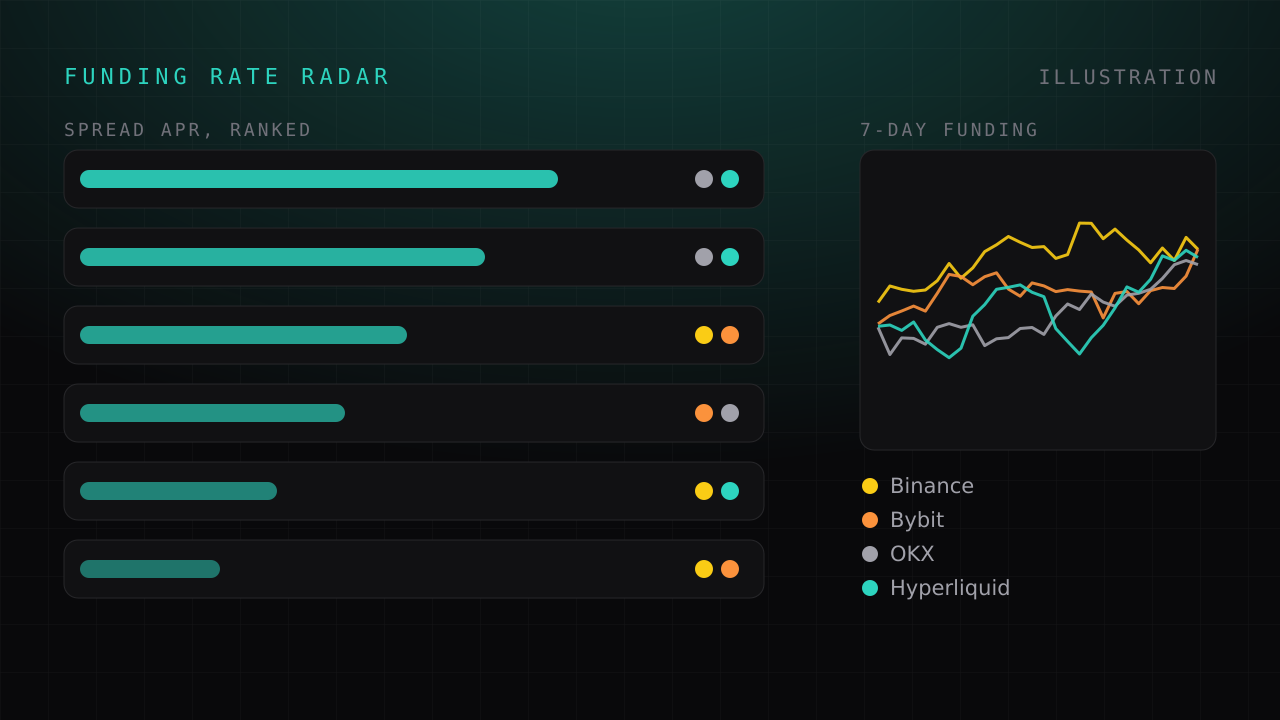
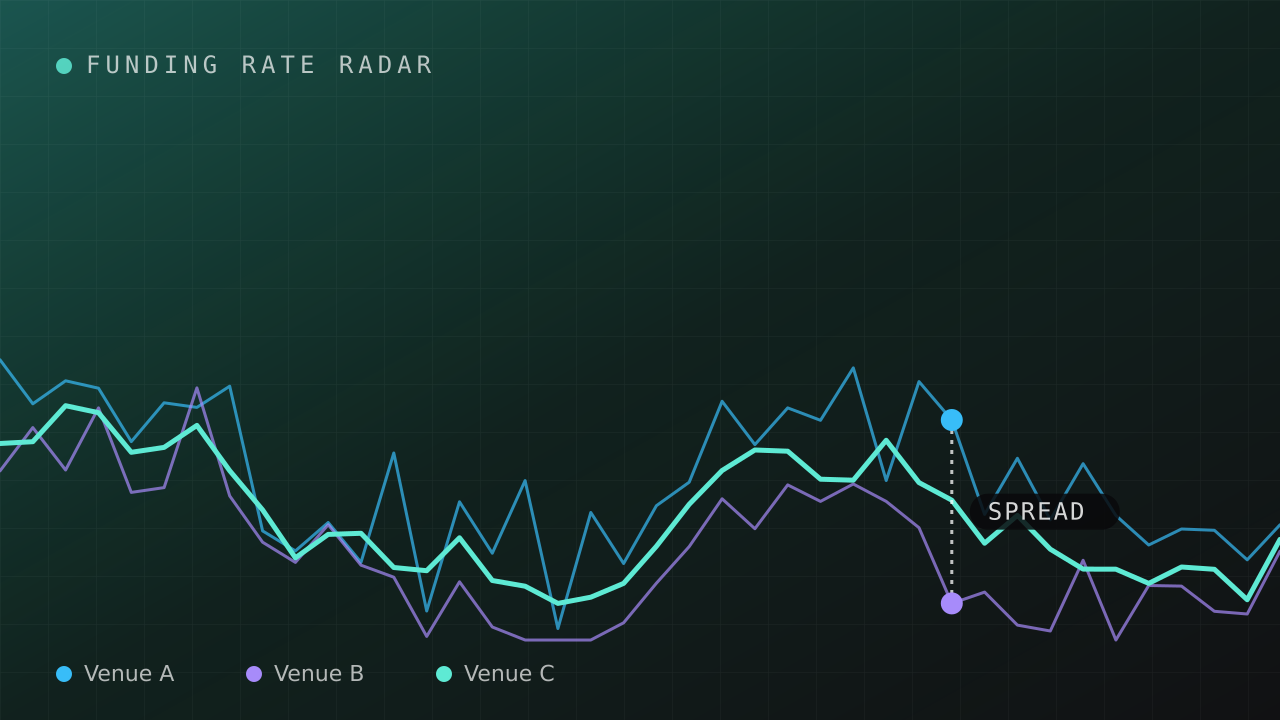
Redraw covers in the original generated style
Grid Bot keeps the amber gradient and price line from the earlier cover, now with
buy and sell fill markers on the grid levels. Funding Rate Radar gets a matching
teal cover with funding lines for several venues and a spread marker.

Claude-Session: https://claude.ai/code/session_016oLdAnzswR8SVrzzRFUrZG

diff --git a/projects/things-i-built/scripts/make-covers.py b/projects/things-i-built/scripts/make-covers.py
@@ -1,96 +1,97 @@
-"""Generate the illustrated project covers (SVG -> PNG) in the site's visual style.
-
-Usage: python3 scripts/make-covers.py   (needs rsvg-convert)
-Illustrations only: shapes are decorative and carry no real market data.
-"""
-import math, random, subprocess, pathlib
+"""Generate project covers (SVG -> PNG) in the site's generated-cover style:
+accent gradient, faint grid, a price line and a mono title. Needs rsvg-convert.
+Usage: python3 scripts/make-covers.py
+Illustrations only: lines and markers are decorative, not real market data."""
+import random, subprocess, pathlib
 
 W, H = 1280, 720
 OUT = pathlib.Path(__file__).resolve().parent.parent / "public" / "projects"
-TEAL, GREEN, RED, MUTED = "#2dd4bf", "#4ade80", "#f87171", "#71717a"
+GREEN, RED = "#4ade80", "#f87171"
 
-def frame(title, tag, body):
+def sparkline(seed, points=24):
+    state = 7
+    for ch in seed:
+        state = (state * 31 + ord(ch)) & 0xFFFFFFFF
+    value, out = 50.0, []
+    for _ in range(points):
+        state = (state * 1664525 + 1013904223) & 0xFFFFFFFF
+        value = min(88, max(12, value + ((state % 1000) / 1000 - 0.45) * 22))
+        out.append(value)
+    return out
+
+def frame(title, c1, c2, stroke, body):
     return f'''<svg xmlns="http://www.w3.org/2000/svg" width="{W}" height="{H}" viewBox="0 0 {W} {H}">
 <defs>
-  <radialGradient id="glow" cx="50%" cy="-10%" r="75%"><stop offset="0" stop-color="{TEAL}" stop-opacity=".28"/><stop offset="1" stop-color="{TEAL}" stop-opacity="0"/></radialGradient>
-  <pattern id="g" width="48" height="48" patternUnits="userSpaceOnUse"><path d="M48 0H0V48" fill="none" stroke="#ffffff" stroke-opacity=".05"/></pattern>
-  <linearGradient id="area" x1="0" y1="0" x2="0" y2="1"><stop offset="0" stop-color="{TEAL}" stop-opacity=".25"/><stop offset="1" stop-color="{TEAL}" stop-opacity="0"/></linearGradient>
+  <linearGradient id="bg" x1="0" y1="0" x2="1" y2="1">
+    <stop offset="0" stop-color="{c1}" stop-opacity=".35"/><stop offset=".5" stop-color="{c2}" stop-opacity=".10"/><stop offset="1" stop-color="{c2}" stop-opacity="0"/>
+  </linearGradient>
+  <pattern id="grid" width="48" height="48" patternUnits="userSpaceOnUse"><path d="M48 0H0V48" fill="none" stroke="#fff" stroke-opacity=".06"/></pattern>
 </defs>
-<rect width="{W}" height="{H}" fill="#09090b"/><rect width="{W}" height="{H}" fill="url(#glow)"/><rect width="{W}" height="{H}" fill="url(#g)"/>
-<text x="64" y="84" fill="{TEAL}" font-family="DejaVu Sans Mono, monospace" font-size="22" letter-spacing="5">{title}</text>
-<text x="{W-64}" y="84" text-anchor="end" fill="{MUTED}" font-family="DejaVu Sans Mono, monospace" font-size="20" letter-spacing="3">{tag}</text>
+<rect width="{W}" height="{H}" fill="#111113"/><rect width="{W}" height="{H}" fill="url(#bg)"/><rect width="{W}" height="{H}" fill="url(#grid)"/>
+<circle cx="64" cy="66" r="8" fill="{stroke}" fill-opacity=".85"/>
+<text x="86" y="73" fill="#fafafa" fill-opacity=".72" font-family="DejaVu Sans Mono, monospace" font-size="24" letter-spacing="5">{title}</text>
 {body}
 </svg>'''
 
+def line(vals, x0, x1, top, bot, width, color, opacity=1):
+    n = len(vals)
+    pts = " ".join(f"{x0+(x1-x0)*i/(n-1):.1f},{bot-(bot-top)*(v-12)/76:.1f}" for i, v in enumerate(vals))
+    return f'<polyline points="{pts}" fill="none" stroke="{color}" stroke-width="{width}" stroke-linejoin="round" stroke-linecap="round" stroke-opacity="{opacity}"/>', pts
+
 def grid_bot():
-    random.seed(4)
-    x0, x1, top, bot = 64, W - 64, 140, H - 70
-    n, levels = 70, 7
-    lo, hi = 0.15, 0.85
-    ys = [top + (bot - top) * (hi - (hi - lo) * i / (levels - 1)) for i in range(levels)]
-    p, path = 0.5, []
-    for i in range(n):
-        p += random.gauss(0, 0.05) + (0.5 - p) * 0.035
-        p = min(0.9, max(0.1, p))
-        path.append(p)
-    px = lambda i: x0 + (x1 - x0) * i / (n - 1)
-    py = lambda v: top + (bot - top) * (1 - v)
-    out = []
-    for y in ys:
-        out.append(f'<line x1="{x0}" x2="{x1}" y1="{y:.1f}" y2="{y:.1f}" stroke="#3f3f46" stroke-dasharray="4 7"/>')
-    pts = " ".join(f"{px(i):.1f},{py(v):.1f}" for i, v in enumerate(path))
-    out.append(f'<polygon points="{px(0):.1f},{bot} {pts} {px(n-1):.1f},{bot}" fill="url(#area)"/>')
-    out.append(f'<polyline points="{pts}" fill="none" stroke="{TEAL}" stroke-width="3.5" stroke-linejoin="round"/>')
-    for i in range(1, n):
-        a, b = py(path[i - 1]), py(path[i])
-        for y in ys:
-            if (a - y) * (b - y) < 0:
-                buy = b > a  # price moving down on screen -> crossed level downward... screen y grows downward
-                buy = b > a
-                cx, cy = px(i), y
-                col = GREEN if buy else RED
-                out.append(f'<circle cx="{cx:.1f}" cy="{cy:.1f}" r="15" fill="{col}" fill-opacity=".18"/>')
-                d = -1 if buy else 1
-                out.append(f'<polygon points="{cx:.1f},{cy + 9*d:.1f} {cx-9:.1f},{cy - 7*d:.1f} {cx+9:.1f},{cy - 7*d:.1f}" fill="{col}"/>')
-    lx = 64
-    out.append(f'<polygon points="{lx+9},{H-34} {lx},{H-22} {lx+18},{H-22}" fill="{GREEN}"/><text x="{lx+28}" y="{H-21}" fill="#a1a1aa" font-family="DejaVu Sans, sans-serif" font-size="20">Buy filled</text>')
-    lx = 220
-    out.append(f'<polygon points="{lx+9},{H-22} {lx},{H-34} {lx+18},{H-34}" fill="{RED}"/><text x="{lx+28}" y="{H-21}" fill="#a1a1aa" font-family="DejaVu Sans, sans-serif" font-size="20">Sell filled</text>')
-    return frame("PERPETUAL GRID BOT", "SIMULATED DATA", "\n".join(out))
+    # Same look as the generated cover (amber), plus grid levels and buy/sell fills.
+    x0, x1, top, bot = 0, W, 250, 640
+    rnd = random.Random(8)
+    vals, v = [], 50.0
+    for i in range(46):
+        v += rnd.gauss(0, 7) + (50 - v) * 0.1
+        vals.append(min(90, max(10, v)))
+    levels = [26, 38, 50, 62, 74]
+    ly = lambda lv: bot - (bot - top) * (lv - 12) / 76
+    out = [f'<line x1="0" x2="{W}" y1="{ly(l):.1f}" y2="{ly(l):.1f}" stroke="#fcd34d" stroke-opacity=".28" stroke-dasharray="6 9"/>' for l in levels]
+    path_svg, pts = line(vals, x0, x1, top, bot, 5, "#fcd34d")
+    out.append(path_svg)
+    xs = lambda i: x0 + (x1 - x0) * i / (len(vals) - 1)
+    for i in range(1, len(vals)):
+        for lv in levels:
+            a, b = vals[i - 1], vals[i]
+            if (a - lv) * (b - lv) < 0:
+                buy = b < a  # crossed the level downward -> buy; upward -> sell
+                cx, cy, col, d = xs(i), ly(lv), (GREEN if buy else RED), (-1 if buy else 1)
+                out.append(f'<circle cx="{cx:.1f}" cy="{cy:.1f}" r="21" fill="{col}" fill-opacity=".2"/>')
+                out.append(f'<polygon points="{cx:.1f},{cy+13*d:.1f} {cx-12:.1f},{cy-10*d:.1f} {cx+12:.1f},{cy-10*d:.1f}" fill="{col}"/>')
+    out.append(f'<polygon points="64,664 52,682 76,682" fill="{GREEN}"/><text x="90" y="681" fill="#fafafa" fill-opacity=".7" font-family="DejaVu Sans, sans-serif" font-size="22">Buy filled</text>')
+    out.append(f'<polygon points="252,682 240,664 264,664" fill="{RED}"/><text x="278" y="681" fill="#fafafa" fill-opacity=".7" font-family="DejaVu Sans, sans-serif" font-size="22">Sell filled</text>')
+    return frame("PERPETUAL GRID BOT", "#fcd34d", "#f97316", "#fcd34d", "\n".join(out))
 
 def funding_radar():
-    random.seed(5)
+    # Same look as the generated cover (teal): funding lines on a few venues and a spread highlight.
+    x0, x1, top, bot = 0, W, 250, 640
+    a = sparkline("funding-rate-radar", 40)
+    rnd = random.Random(3)
+    b = [min(88, max(12, v + rnd.gauss(0, 7) - 6)) for v in a]
+    c = [min(88, max(12, v + rnd.gauss(0, 7) + 9)) for v in a]
     out = []
-    venues = ["Binance", "Bybit", "OKX", "Hyperliquid"]
-    cols = ["#facc15", "#fb923c", "#a1a1aa", TEAL]
-    x0, rowh, y0 = 64, 78, 150
-    out.append(f'<text x="{x0}" y="{y0-14}" fill="{MUTED}" font-family="DejaVu Sans Mono, monospace" font-size="18" letter-spacing="3">SPREAD APR, RANKED</text>')
-    spreads = [0.92, 0.78, 0.63, 0.51, 0.38, 0.27]
-    for r, s in enumerate(spreads):
-        y = y0 + r * rowh
-        out.append(f'<rect x="{x0}" y="{y}" width="700" height="58" rx="14" fill="#111113" stroke="#27272a"/>')
-        out.append(f'<rect x="{x0+16}" y="{y+20}" width="{int(520*s)}" height="18" rx="9" fill="{TEAL}" fill-opacity="{0.35+0.6*s:.2f}"/>')
-        a, b = random.sample(range(4), 2)
-        for k, v in enumerate((a, b)):
-            out.append(f'<circle cx="{x0+640+k*26}" cy="{y+29}" r="9" fill="{cols[v]}"/>')
-    # venue legend + mini lines on the right
-    rx = 860
-    out.append(f'<text x="{rx}" y="{y0-14}" fill="{MUTED}" font-family="DejaVu Sans Mono, monospace" font-size="18" letter-spacing="3">7-DAY FUNDING</text>')
-    out.append(f'<rect x="{rx}" y="{y0}" width="356" height="300" rx="14" fill="#111113" stroke="#27272a"/>')
-    for k, c in enumerate(cols):
-        base = random.uniform(0.3, 0.7); pts = []
-        for i in range(28):
-            base += random.gauss(0, 0.05) + (0.5 - base) * 0.1
-            pts.append(f"{rx+18+i*(320/27):.1f},{y0+20+ (1-min(0.95,max(0.05,base)))*260:.1f}")
-        out.append(f'<polyline points="{" ".join(pts)}" fill="none" stroke="{c}" stroke-width="3" stroke-linejoin="round" stroke-opacity=".9"/>')
-    for k, (v, c) in enumerate(zip(venues, cols)):
-        yy = y0 + 336 + k * 34
-        out.append(f'<circle cx="{rx+10}" cy="{yy}" r="8" fill="{c}"/><text x="{rx+30}" y="{yy+7}" fill="#a1a1aa" font-family="DejaVu Sans, sans-serif" font-size="21">{v}</text>')
-    return frame("FUNDING RATE RADAR", "ILLUSTRATION", "\n".join(out))
+    la, _ = line(c, x0, x1, top, bot, 3, "#38bdf8", .7)
+    lb, _ = line(b, x0, x1, top, bot, 3, "#a78bfa", .7)
+    lm, pts = line(a, x0, x1, top, bot, 5, "#5eead4")
+    out += [la, lb, lm]
+    # spread marker: vertical bar between the highest and lowest venue at the widest point
+    gaps = [abs(c[i] - b[i]) for i in range(len(a))]
+    i = gaps.index(max(gaps)); xx = (x1 - x0) * i / (len(a) - 1)
+    y = lambda v: bot - (bot - top) * (v - 12) / 76
+    out.append(f'<line x1="{xx:.1f}" x2="{xx:.1f}" y1="{y(c[i]):.1f}" y2="{y(b[i]):.1f}" stroke="#fafafa" stroke-opacity=".75" stroke-width="3" stroke-dasharray="4 6"/>')
+    for v, col in ((c[i], "#38bdf8"), (b[i], "#a78bfa")):
+        out.append(f'<circle cx="{xx:.1f}" cy="{y(v):.1f}" r="11" fill="{col}"/>')
+    out.append(f'<rect x="{xx+18:.1f}" y="{(y(c[i])+y(b[i]))/2-18:.1f}" width="150" height="36" rx="18" fill="#09090b" fill-opacity=".85"/>')
+    out.append(f'<text x="{xx+36:.1f}" y="{(y(c[i])+y(b[i]))/2+8:.1f}" fill="#fafafa" fill-opacity=".85" font-family="DejaVu Sans Mono, monospace" font-size="24" letter-spacing="2">SPREAD</text>')
+    for k, (name, col) in enumerate((("Venue A", "#38bdf8"), ("Venue B", "#a78bfa"), ("Venue C", "#5eead4"))):
+        x = 64 + k * 190
+        out.append(f'<circle cx="{x}" cy="674" r="8" fill="{col}"/><text x="{x+20}" y="681" fill="#fafafa" fill-opacity=".7" font-family="DejaVu Sans, sans-serif" font-size="22">{name}</text>')
+    return frame("FUNDING RATE RADAR", "#2dd4bf", "#10b981", "#5eead4", "\n".join(out))
 
 for slug, svg in (("grid-bot", grid_bot()), ("funding-rate-radar", funding_radar())):
     d = OUT / slug; d.mkdir(parents=True, exist_ok=True)
-    (d / "cover.svg").write_text(svg, encoding="utf-8")
-    subprocess.run(["rsvg-convert", "-w", str(W), "-h", str(H), str(d / "cover.svg"), "-o", str(d / "cover.png")], check=True)
-    (d / "cover.svg").unlink()
-    print("wrote", d / "cover.png")
+    s = d / "cover.svg"; s.write_text(svg, encoding="utf-8")
+    subprocess.run(["rsvg-convert", "-w", str(W), "-h", str(H), str(s), "-o", str(d / "cover.png")], check=True)
+    s.unlink(); print("wrote", d / "cover.png")
